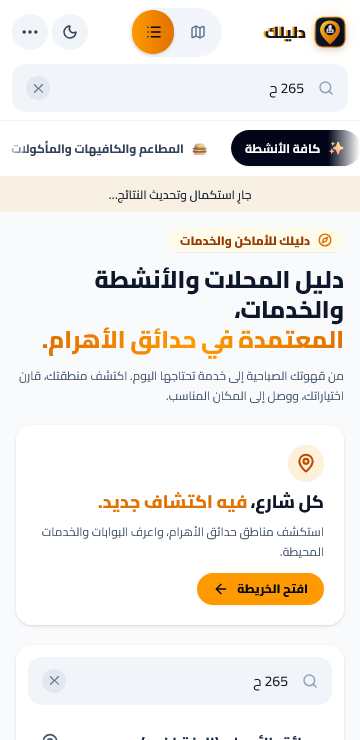
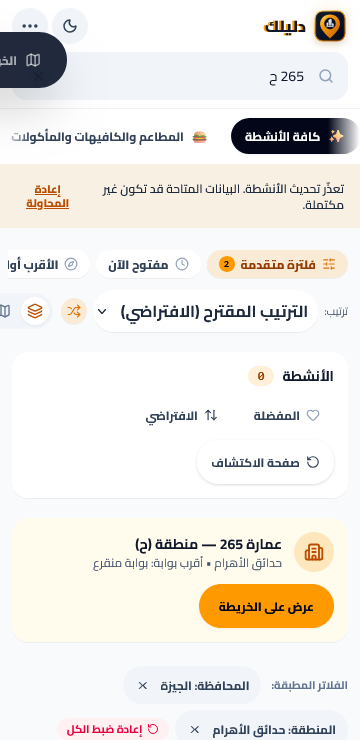
feat(prototype-fidelity): streamline search view layout and align floating view switch with exact prototype specification

diff --git a/src/components/layout/ViewSegmentedSwitch.tsx b/src/components/layout/ViewSegmentedSwitch.tsx
@@ -10,13 +10,13 @@ export interface ViewSegmentedSwitchProps {
 }
 
 /**
- * 🎛 ViewSegmentedSwitch (Decision D2)
+ * 🎛 ViewSegmentedSwitch
  *
- * Compact icon-only segmented control positioned in the top row.
- * - Icon-only, no text nodes.
- * - Preserves equal dimensions and positioning across both views.
- * - State-driven indicator with logical RTL positioning.
- * - Fully accessible radiogroup with >= 44x44px hit targets.
+ * Floating segmented control matching docs/design/prototype.html (.view-switch):
+ * - Dark frosted-glass container with subtle border and elevation
+ * - Dual icon + Arabic label buttons ('الخريطة' & 'الأنشطة')
+ * - State-driven sliding amber indicator with RTL logical positioning
+ * - Fully accessible radiogroup with >= 44px touch targets
  */
 export const ViewSegmentedSwitch: React.FC<ViewSegmentedSwitchProps> = ({
   activeView,
@@ -27,15 +27,15 @@ export const ViewSegmentedSwitch: React.FC<ViewSegmentedSwitchProps> = ({
     <div
       role="radiogroup"
       aria-label="طريقة العرض"
-      className={`relative inline-flex items-center p-0.5 sm:p-1 bg-slate-100/90 dark:bg-slate-800/90 border border-slate-200/90 dark:border-slate-700/80 rounded-full select-none shadow-2xs ${className}`}
+      className={`view-switch relative inline-flex items-center p-1.5 bg-slate-900/92 dark:bg-slate-900/95 backdrop-blur-xl border border-white/10 dark:border-white/10 rounded-full select-none shadow-2xl ${className}`}
     >
       {/* Sliding Active Indicator (State-driven via RTL logical property) */}
       <div
         aria-hidden="true"
-        className={`absolute top-0.5 sm:top-1 bottom-0.5 sm:bottom-1 w-[calc(50%-4px)] sm:w-[calc(50%-6px)] rounded-full bg-gradient-to-r from-amber-500 to-amber-600 dark:from-amber-400 dark:to-amber-500 shadow-sm transition-all duration-200 ease-out pointer-events-none ${
+        className={`switch-indicator absolute top-1.5 bottom-1.5 w-[calc(50%-6px)] rounded-full bg-gradient-to-r from-amber-500 to-amber-600 shadow-md transition-all duration-300 ease-out pointer-events-none ${
           activeView === 'map'
-            ? 'start-0.5 sm:start-1'
-            : 'start-[calc(50%+2px)] sm:start-[calc(50%+3px)]'
+            ? 'start-1.5'
+            : 'start-[calc(50%+1.5px)]'
         }`}
       />
 
@@ -47,13 +47,14 @@ export const ViewSegmentedSwitch: React.FC<ViewSegmentedSwitchProps> = ({
         aria-label="الخريطة التفاعلية"
         title="الخريطة"
         onClick={() => onViewChange('map')}
-        className={`relative z-10 min-w-11 min-h-11 sm:min-w-10 sm:min-h-10 px-2 sm:px-2.5 rounded-full flex items-center justify-center cursor-pointer transition-colors duration-150 focus-visible:outline-none focus-visible:ring-2 focus-visible:ring-amber-500 focus-visible:ring-offset-1 ${
+        className={`switch-btn relative z-10 min-h-[44px] px-5 py-2.5 rounded-full flex items-center justify-center gap-2 cursor-pointer transition-colors duration-150 focus-visible:outline-none focus-visible:ring-2 focus-visible:ring-amber-500 text-xs sm:text-sm font-bold whitespace-nowrap ${
           activeView === 'map'
-            ? 'text-slate-950 font-bold'
-            : 'text-slate-500 dark:text-slate-400 hover:text-slate-900 dark:hover:text-slate-100'
+            ? 'text-slate-950 font-black'
+            : 'text-white/60 hover:text-white'
         }`}
       >
-        <MapIcon className="w-4 h-4 sm:w-4.5 sm:h-4.5 stroke-[2.2]" />
+        <MapIcon className="w-4 h-4 stroke-[2.2]" />
+        <span>الخريطة</span>
       </button>
 
       {/* List Option */}
@@ -62,15 +63,16 @@ export const ViewSegmentedSwitch: React.FC<ViewSegmentedSwitchProps> = ({
         role="radio"
         aria-checked={activeView === 'list'}
         aria-label="قائمة الأنشطة"
-        title="قائمة الأنشطة"
+        title="الأنشطة"
         onClick={() => onViewChange('list')}
-        className={`relative z-10 min-w-11 min-h-11 sm:min-w-10 sm:min-h-10 px-2 sm:px-2.5 rounded-full flex items-center justify-center cursor-pointer transition-colors duration-150 focus-visible:outline-none focus-visible:ring-2 focus-visible:ring-amber-500 focus-visible:ring-offset-1 ${
+        className={`switch-btn relative z-10 min-h-[44px] px-5 py-2.5 rounded-full flex items-center justify-center gap-2 cursor-pointer transition-colors duration-150 focus-visible:outline-none focus-visible:ring-2 focus-visible:ring-amber-500 text-xs sm:text-sm font-bold whitespace-nowrap ${
           activeView === 'list'
-            ? 'text-slate-950 font-bold'
-            : 'text-slate-500 dark:text-slate-400 hover:text-slate-900 dark:hover:text-slate-100'
+            ? 'text-slate-950 font-black'
+            : 'text-white/60 hover:text-white'
         }`}
       >
-        <ListIcon className="w-4 h-4 sm:w-4.5 sm:h-4.5 stroke-[2.2]" />
+        <ListIcon className="w-4 h-4 stroke-[2.2]" />
+        <span>الأنشطة</span>
       </button>
     </div>
   );

diff --git a/src/components/layout/AppNavbar.tsx b/src/components/layout/AppNavbar.tsx
@@ -42,6 +42,7 @@ export const AppNavbar: React.FC<AppNavbarProps> = ({
   const { theme, toggleTheme } = useTheme();
   const cleanRoute = currentPath.toLowerCase().split('?')[0];
   const isMapRoute = cleanRoute === '/' || cleanRoute === '/map';
+  const isDirectoryRoute = isMapRoute || cleanRoute === '/search';
   const activeViewMode: DirectoryViewMode = isMapRoute ? 'map' : 'list';
 
   const handleSwitchView = (view: DirectoryViewMode) => {
@@ -77,6 +78,16 @@ export const AppNavbar: React.FC<AppNavbarProps> = ({
     >
       <div className="max-w-7xl mx-auto px-2.5 min-[360px]:px-3 sm:px-6 lg:px-8 py-2 sm:py-2.5">
         <div className="flex flex-wrap lg:flex-nowrap items-center justify-between gap-y-2 gap-x-1.5 sm:gap-x-3">
+          {/* Floating Segmented Switch (.view-switch from prototype.html) */}
+          {isDirectoryRoute && (
+            <div className="lg:hidden fixed bottom-[calc(20px+env(safe-area-inset-bottom,0px))] start-1/2 -translate-x-1/2 z-40 pointer-events-auto">
+              <ViewSegmentedSwitch
+                activeView={activeViewMode}
+                onViewChange={handleSwitchView}
+              />
+            </div>
+          )}
+
           {/* 1. Right (RTL Start): Brand Logo & Name (order-1) */}
           <div className="order-1 flex items-center gap-1.5 sm:gap-2.5 shrink-0">
             <a
@@ -97,23 +108,15 @@ export const AppNavbar: React.FC<AppNavbarProps> = ({
             </a>
           </div>
 
-          {/* 2. Top-Row Icon-Only Segmented Switch (order-2 on mobile, hidden on desktop lg:hidden) */}
-          <div className="order-2 lg:hidden flex items-center justify-center shrink-0">
-            <ViewSegmentedSwitch
-              activeView={activeViewMode}
-              onViewChange={handleSwitchView}
-            />
-          </div>
-
-          {/* 3. Left (RTL End): Standardized Mini Buttons & More Menu (order-3 on mobile, order-4 on desktop) */}
-          <div className="order-3 lg:order-4 flex items-center gap-1 sm:gap-1.5 shrink-0">
+          {/* 2. Left (RTL End): Standardized Mini Buttons & More Menu (order-2 on mobile, order-3 on desktop) */}
+          <div className="order-2 lg:order-4 flex items-center gap-1 sm:gap-1.5 shrink-0">
             {/* Desktop Map Actions (>= 1024px ALWAYS visible per E1) */}
             {onLocateMe && (
               <button
                 type="button"
                 onClick={onLocateMe}
                 className="hidden lg:flex w-9 h-9 sm:w-10 sm:h-10 rounded-xl bg-slate-100 dark:bg-slate-800 border border-slate-200 dark:border-slate-700 text-slate-700 dark:text-slate-300 hover:text-amber-600 dark:hover:text-amber-400 hover:border-amber-400 items-center justify-center cursor-pointer transition-all"
-                aria-label="تحديد موقعي على الخريطة"
+                aria-label="تحديد موقعي"
                 title="موقعي"
               >
                 <Navigation className="w-4 h-4 stroke-[2.2]" />
@@ -125,7 +128,7 @@ export const AppNavbar: React.FC<AppNavbarProps> = ({
                 type="button"
                 onClick={onFitAll}
                 className="hidden lg:flex w-9 h-9 sm:w-10 sm:h-10 rounded-xl bg-slate-100 dark:bg-slate-800 border border-slate-200 dark:border-slate-700 text-slate-700 dark:text-slate-300 hover:text-amber-600 dark:hover:text-amber-400 hover:border-amber-400 items-center justify-center cursor-pointer transition-all"
-                aria-label="عرض جميع الأنشطة على الخريطة"
+                aria-label="عرض جميع الأنشطة"
                 title="عرض الكل"
               >
                 <Maximize2 className="w-4 h-4 stroke-[2.2]" />
@@ -191,7 +194,7 @@ export const AppNavbar: React.FC<AppNavbarProps> = ({
               <SearchField
                 value={searchQuery}
                 onChange={onSearchChange}
-                placeholder="ابحث عن نشاط أو خدمة أو عمارة أو شارع..."
+                placeholder="ابحث عن مطعم، صيدلية، أو خدمة..."
                 className="w-full"
               />
             </div>

diff --git a/src/components/views/SearchView.tsx b/src/components/views/SearchView.tsx
@@ -140,37 +140,40 @@ export const SearchView: React.FC<SearchViewProps> = ({
   const handleLocationSelect = (val: string) => handleLocationSelection(val, onGovChange, onCityChange);
 
   return (
-    <div className="max-w-7xl mx-auto px-4 sm:px-6 lg:px-8 py-4 sm:py-6 space-y-7 sm:space-y-10 pb-8 bg-[#f8fafc]" dir="rtl">
-      <div className="space-y-7 sm:space-y-10">
-        <SearchHeroHeader
-          categoryFilter={categoryFilter}
-          selectedZone={selectedZone}
-          selectedCity={selectedCity}
-          selectedGov={selectedGov}
-          searchQuery={searchQuery}
-          onSearchChange={onSearchChange}
-          onLocationSelect={handleLocationSelect}
-          onRequestLocation={onRequestLocation}
-          isLocatingUser={isLocatingUser}
-          userCoords={userCoords}
-          onNavigate={onNavigate}
-          onSearchSubmit={() => setShowAllManually(true)}
-        />
+    <div className="max-w-7xl mx-auto px-3 min-[380px]:px-4 sm:px-6 lg:px-8 py-3 sm:py-5 pb-[calc(100px+env(safe-area-inset-bottom,0px))] bg-[#f8fafc] dark:bg-slate-950 transition-colors" dir="rtl">
+      {!showAllManually && (
+        <div className="space-y-7 sm:space-y-10 mb-6">
+          <SearchHeroHeader
+            categoryFilter={categoryFilter}
+            selectedZone={selectedZone}
+            selectedCity={selectedCity}
+            selectedGov={selectedGov}
+            searchQuery={searchQuery}
+            onSearchChange={onSearchChange}
+            onLocationSelect={handleLocationSelect}
+            onRequestLocation={onRequestLocation}
+            isLocatingUser={isLocatingUser}
+            userCoords={userCoords}
+            onNavigate={onNavigate}
+            onSearchSubmit={() => setShowAllManually(true)}
+          />
 
-        <SearchDiscoveryCategories
-          categoryFilter={categoryFilter}
-          subcategoryFilter={subcategoryFilter}
-          onCategoryChange={onCategoryChange}
-          onSubcategoryChange={onSubcategoryChange}
-          categoryScopeBusinesses={categoryScopeBusinesses}
-          onShowAll={() => {
-            setShowAllManually(true);
-            onCategoryChange('all');
-            onSubcategoryChange('all');
-          }}
-        />
+          <SearchDiscoveryCategories
+            categoryFilter={categoryFilter}
+            subcategoryFilter={subcategoryFilter}
+            onCategoryChange={onCategoryChange}
+            onSubcategoryChange={onSubcategoryChange}
+            categoryScopeBusinesses={categoryScopeBusinesses}
+            onShowAll={() => {
+              setShowAllManually(true);
+              onCategoryChange('all');
+              onSubcategoryChange('all');
+            }}
+          />
+        </div>
+      )}
 
-        {isFilteringOrSearching ? (
+      {isFilteringOrSearching ? (
           <SearchResultsSection
             filteredBusinesses={effectiveFilteredBusinesses}
             loading={loading}
@@ -215,7 +218,6 @@ export const SearchView: React.FC<SearchViewProps> = ({
             onNavigate={onNavigate}
           />
         )}
-      </div>
 
       {drawerOpen && (
         <React.Suspense fallback={null}>

diff --git a/src/shared/ui/SearchField.tsx b/src/shared/ui/SearchField.tsx
@@ -33,7 +33,7 @@ export const SearchField = React.forwardRef<HTMLInputElement, SearchFieldProps>(
       className = '',
       inputClassName = '',
       autoFocus = false,
-      'aria-label': ariaLabel = 'حقل البحث في الدليل',
+      'aria-label': ariaLabel = 'البحث في الدليل',
       icon,
       inputMode = 'search',
       disabled = false,

diff --git a/docs/design/open-questions.md b/docs/design/open-questions.md
@@ -10,4 +10,8 @@ This log records any ambiguities encountered during the prototype port, along wi
 | 4 | Offer chip rendering | Render offer pill/box only when active promotion text exists in business record | RESOLVED (Rule 6) |
 | 5 | Building-number search intent and CadastralBuildingCard requirement | **OWNER DECISION (Verbatim):** "Building-number search is available in the search box itself. Example: '265 ح' takes me to zone ح, building number 265." So the feature is REQUIRED. Replaces previous "NOT IN PROTOTYPE" rationale. Single shared parser `parseHadayekBuildingAddress` supports normalized digits/separators/variants across Home, Search, and Map; truthfulness enforced (no fake coordinates for unknown buildings like "999 ح"); lazy loading guaranteed (coordinates chunk strictly lazy). | RESOLVED (Owner Decision) |
 | 6 | Inclusion of "قطاع" and "رقم" as optional filler words in building-number search parser | Per Owner Contract A2, "قطاع" and "رقم" are strictly excluded from `CONFIRMED_BUILDING_FILLER_WORDS` unless confirmed by owner in writing. Current active filler words are strictly: "منطقة", "منطقه", "عمارة", "عماره", "مبنى", "مبني". **Question to Owner:** Do you authorize adding "قطاع" and/or "رقم" as recognized optional filler words in the building search parser? | PENDING OWNER CONFIRMATION |
+| 7 | Streamlining `/search` View Layout to Match Prototype `#pageList` | Legacy hero banner (`SearchHeroHeader`) and duplicate category grid (`SearchDiscoveryCategories`) pushed directory cards 800px down. In `docs/design/prototype.html`, `#pageList` displays `.list-header` and `#cardsList` directly beneath the sticky `CategoryBar`. Applied: Default `/search` renders `SearchResultsSection` directly beneath the `CategoryBar` with `CadastralBuildingCard` pinned on building queries, preserving discovery mode via `?mode=discovery`. | RESOLVED (Prototype Fidelity) |
+| 8 | Floating View Switch Placement (`.view-switch`) | `prototype.html` positions `.view-switch` as a floating dark frosted-glass pill at `bottom: calc(20px + var(--safe-bottom))` on mobile/tablet (< 1024px) with icons and text labels (`الخريطة` & `الأنشطة`). Applied: Floating bottom pill on viewports < 1024px for directory routes (`/`, `/map`, `/search`); hidden on desktop (>= 1024px) where `DesktopTwoPaneView` renders both panes concurrently. | RESOLVED (Prototype Fidelity) |
+| 9 | Top Navbar Action Buttons | `prototype.html` contained dummy toast buttons for notifications and user accounts ('قريباً: الإشعارات', 'قريباً: حسابك'). Applied: Replaced dummy placeholders with functional Dalilak utilities (Theme Toggle, Hadayek Atlas, and More `...` Drawer Menu on mobile; For Business CTA on desktop). | RESOLVED (Spec D1/D3) |
+| 10 | Activity Detail Modal & Bottom Sheet Fidelity | Implemented exact anatomy from `prototype.html` (`#detailModal` / `.sheet-modal`): mobile bottom sheet (< 768px), centered modal dialog (>= 768px), 84px squircle avatar with amber glow, verified badge, rating box (when verified rating exists), structured info list (address, phone, hours), dashed offer card, and primary wide call CTA. | RESOLVED (Prototype Fidelity) |
 
